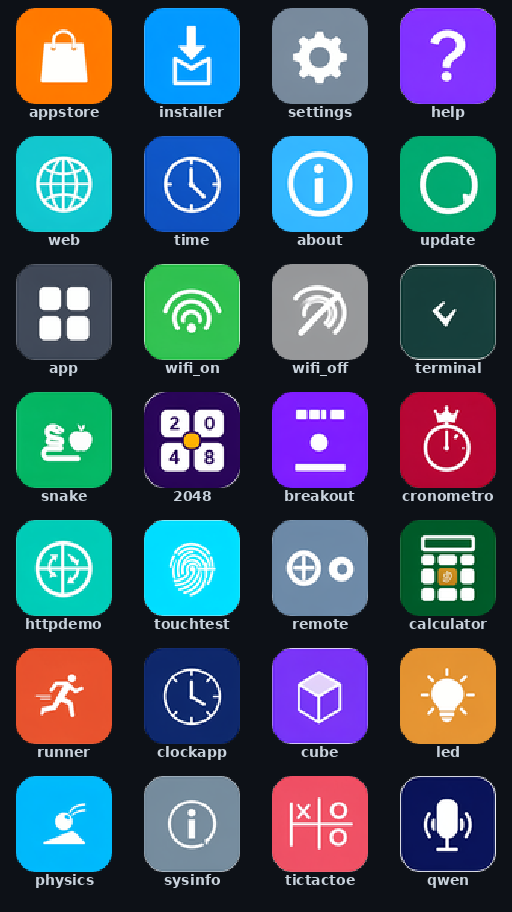
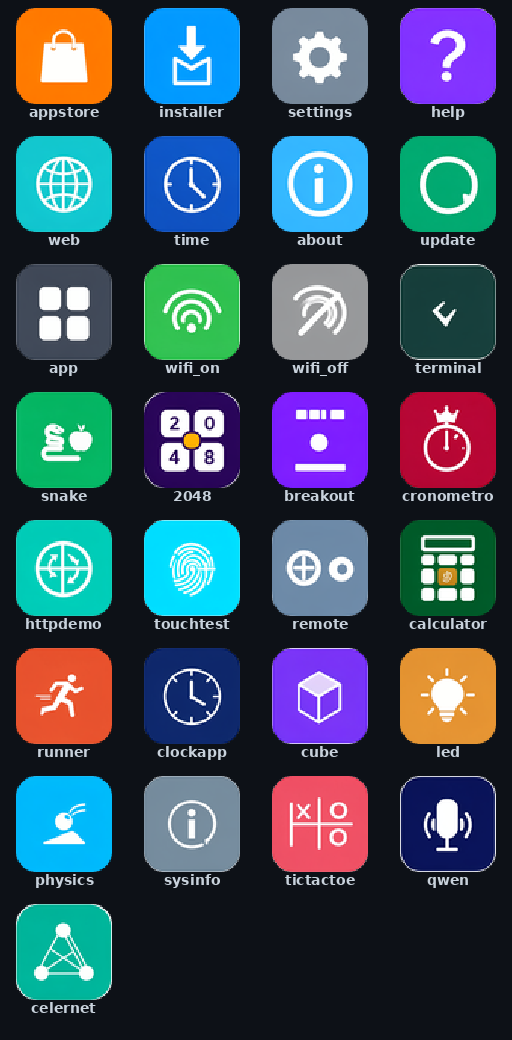
CelerNet: app de sistema (toggle, nos ouvidos, mensagens)
Painel da malha em data/apps/CelerNet (ES5, sem permissions, api 26):
toggle liga/desliga o no (persiste no boot; toast honesto se faltar
RAM para o radio), identidade (nome, rede, quantos ouvidos), lista de
presenca com RSSI/saltos/idade, botao de mensagem de teste pelo
System.prompt e log das ultimas recebidas com origem e saltos. Em
placa sem Bluetooth (CYD/devkit) mostra o aviso e segue instalavel.

Icone celernet no pipeline oficial: entrada no tools/icons.json
(seed 130, tres pontos em malha sobre teal), arte FLUX 512 -> alpha8
pelo make_icons.py (APP_PKG_ICONS), data/icons + icon.png do pacote e
contact sheet regenerada.

Lint do app: 0 erros/0 avisos; catalogo de apps 36 -> 37.

diff --git a/data/apps/CelerNet/main.js b/data/apps/CelerNet/main.js
@@ -1,0 +1,102 @@
+// CelerNet — painel da malha BLE entre CelerOS (API 26). Liga/desliga o
+// nó (persiste entre reboots), mostra os dispositivos ouvidos com sinal,
+// saltos e idade, manda mensagem de teste para toda a área e acompanha
+// as que chegam. Em placa sem Bluetooth mostra um aviso e sai.
+
+var hasMesh = typeof CelerNet !== "undefined";
+var rx = [];            // ultimas mensagens recebidas (mais nova primeiro)
+var nodes = [];
+var nodesAt = -10000;
+
+function pushRx(m) {
+    var quem = m.fromName || m.from;
+    rx.unshift(quem + " (" + m.hops + " salto" + (m.hops === 1 ? "" : "s") + "): " + m.msg);
+    if (rx.length > 3) rx.pop();
+}
+
+function drainRx() {
+    var m, got = false;
+    while ((m = CelerNet.poll()) !== null) {
+        pushRx(m);
+        got = true;
+    }
+    if (got) UI.invalidate();
+}
+
+function sendTest() {
+    var txt = System.prompt("Mensagem para a malha", "");
+    if (txt === "") return;  // X = cancelar
+    if (!CelerNet.broadcast({ type: "msg", de: CelerNet.status().name, texto: txt })) {
+        UI.toast("Malha desligada ou fila cheia");
+    }
+}
+
+while (true) {
+    var full = UI.begin();
+
+    if (UI.header("CelerNet", { back: true })) {
+        System.exitApp();
+    }
+
+    if (!hasMesh) {
+        UI.card(10, 56, 220, 90);
+        UI.text("Esta placa não tem Bluetooth no firmware.", 22, 70,
+                { role: "body", w: 196, lines: 3 });
+        UI.cardEnd();
+        UI.text("A malha existe nas placas com BLE (SmartDisplay, cachorro e relógio).", 10, 160,
+                { role: "caption", w: 220, lines: 3 });
+        UI.end();
+        continue;
+    }
+
+    var st = CelerNet.status();
+    var y = 56;
+
+    // liga/desliga + identidade
+    UI.card(10, y, 220, 52);
+    var on = UI.toggle(20, y + 8, st.active);
+    UI.text("Malha " + (on ? "ativa" : "desligada"), 74, y + 8);
+    if (on !== st.active) {
+        var ok = on ? CelerNet.start({}) : CelerNet.stop();
+        if (!ok && on) UI.toast("Sem RAM para o rádio agora");
+        UI.invalidate();
+    }
+    st = CelerNet.status();
+    UI.text(st.name + " · rede " + st.net + " · " + st.heard + " ouvidos",
+            20, y + 32, { role: "caption", w: 200 });
+    UI.cardEnd();
+    y += 60;
+
+    // presenca (atualiza 1x/s)
+    if (System.millis() - nodesAt > 1000) {
+        nodesAt = System.millis();
+        nodes = CelerNet.nodes();
+        UI.invalidate();
+    }
+    var items = [];
+    for (var i = 0; i < nodes.length; i++) {
+        var n = nodes[i];
+        items.push({ label: n.name || n.id,
+                     sub: n.hops + (n.hops === 1 ? " salto" : " saltos") + " · há " + n.lastSeen + " s",
+                     right: n.rssi + " dBm" });
+    }
+    if (items.length === 0) items.push({ label: "Nenhum nó ouvido ainda", enabled: false });
+    UI.list("nodes", 10, y, 220, 104, items, { rowH: 34 });
+    y += 112;
+
+    // mensagem de teste
+    if (UI.button("Enviar mensagem", 10, y, 220, 30,
+                  { style: st.active ? "primary" : "ghost", disabled: !st.active })) {
+        sendTest();
+    }
+    y += 38;
+
+    // log do que chega
+    UI.text("Chegou:", 10, y, { role: "caption" });
+    for (var k = 0; k < rx.length; k++) {
+        UI.text(rx[k], 10, y + 16 + k * 16, { role: "caption", w: 220, lines: 1 });
+    }
+
+    drainRx();
+    UI.end();
+}

diff --git a/tools/make_icons.py b/tools/make_icons.py
@@ -215,6 +215,7 @@ APP_PKG_ICONS = {
     "Snake": "snake",
     "HTTP Demo": "httpdemo",
     "Touch Test": "touchtest",
+    "CelerNet": "celernet",
 }
 
 # Apps do CelerOS Hub (hub_apps/<Nome>/) e o id do icone do pacote
